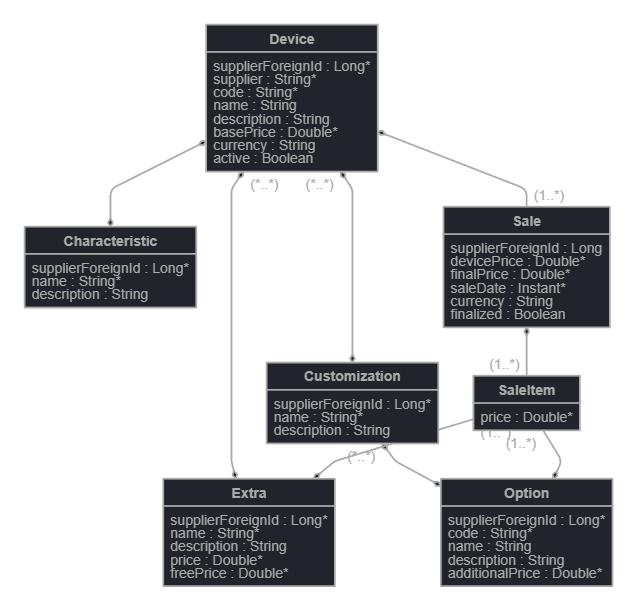
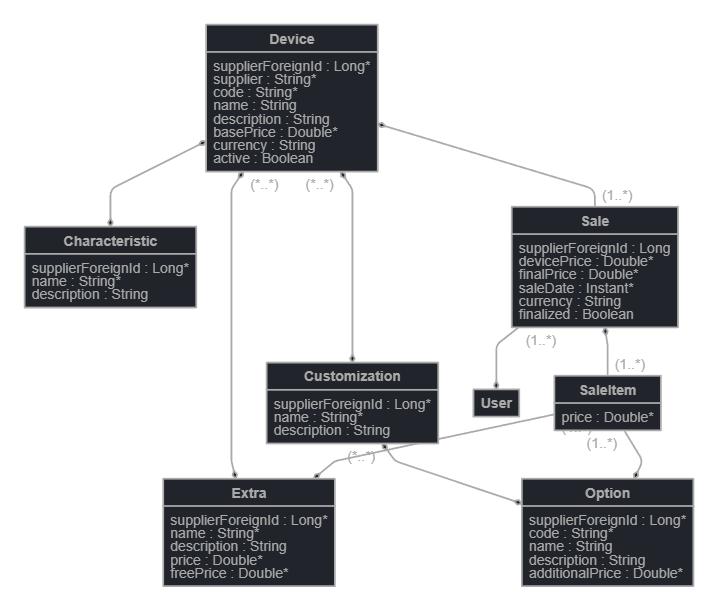
se agrego relacion manyToOne Sale-User

diff --git a/src/main/webapp/app/entities/sale/update/sale-update.component.spec.ts b/src/main/webapp/app/entities/sale/update/sale-update.component.spec.ts
@@ -4,10 +4,12 @@ import { FormBuilder } from '@angular/forms';
 import { ActivatedRoute } from '@angular/router';
 import { Subject, from, of } from 'rxjs';
 
+import { IUser } from 'app/entities/user/user.model';
+import { UserService } from 'app/entities/user/service/user.service';
 import { IDevice } from 'app/entities/device/device.model';
 import { DeviceService } from 'app/entities/device/service/device.service';
-import { SaleService } from '../service/sale.service';
 import { ISale } from '../sale.model';
+import { SaleService } from '../service/sale.service';
 import { SaleFormService } from './sale-form.service';
 
 import { SaleUpdateComponent } from './sale-update.component';
@@ -18,6 +20,7 @@ describe('Sale Management Update Component', () => {
   let activatedRoute: ActivatedRoute;
   let saleFormService: SaleFormService;
   let saleService: SaleService;
+  let userService: UserService;
   let deviceService: DeviceService;
 
   beforeEach(() => {
@@ -41,12 +44,35 @@ describe('Sale Management Update Component', () => {
     activatedRoute = TestBed.inject(ActivatedRoute);
     saleFormService = TestBed.inject(SaleFormService);
     saleService = TestBed.inject(SaleService);
+    userService = TestBed.inject(UserService);
     deviceService = TestBed.inject(DeviceService);
 
     comp = fixture.componentInstance;
   });
 
   describe('ngOnInit', () => {
+    it('Should call User query and add missing value', () => {
+      const sale: ISale = { id: 456 };
+      const user: IUser = { id: 26108 };
+      sale.user = user;
+
+      const userCollection: IUser[] = [{ id: 25182 }];
+      jest.spyOn(userService, 'query').mockReturnValue(of(new HttpResponse({ body: userCollection })));
+      const additionalUsers = [user];
+      const expectedCollection: IUser[] = [...additionalUsers, ...userCollection];
+      jest.spyOn(userService, 'addUserToCollectionIfMissing').mockReturnValue(expectedCollection);
+
+      activatedRoute.data = of({ sale });
+      comp.ngOnInit();
+
+      expect(userService.query).toHaveBeenCalled();
+      expect(userService.addUserToCollectionIfMissing).toHaveBeenCalledWith(
+        userCollection,
+        ...additionalUsers.map(expect.objectContaining),
+      );
+      expect(comp.usersSharedCollection).toEqual(expectedCollection);
+    });
+
     it('Should call Device query and add missing value', () => {
       const sale: ISale = { id: 456 };
       const device: IDevice = { id: 24359 };
@@ -71,12 +97,15 @@ describe('Sale Management Update Component', () => {
 
     it('Should update editForm', () => {
       const sale: ISale = { id: 456 };
+      const user: IUser = { id: 12440 };
+      sale.user = user;
       const device: IDevice = { id: 7904 };
       sale.device = device;
 
       activatedRoute.data = of({ sale });
       comp.ngOnInit();
 
+      expect(comp.usersSharedCollection).toContain(user);
       expect(comp.devicesSharedCollection).toContain(device);
       expect(comp.sale).toEqual(sale);
     });
@@ -151,6 +180,16 @@ describe('Sale Management Update Component', () => {
   });
 
   describe('Compare relationships', () => {
+    describe('compareUser', () => {
+      it('Should forward to userService', () => {
+        const entity = { id: 123 };
+        const entity2 = { id: 456 };
+        jest.spyOn(userService, 'compareUser');
+        comp.compareUser(entity, entity2);
+        expect(userService.compareUser).toHaveBeenCalledWith(entity, entity2);
+      });
+    });
+
     describe('compareDevice', () => {
       it('Should forward to deviceService', () => {
         const entity = { id: 123 };

diff --git a/src/main/webapp/app/entities/sale/update/sale-update.component.ts b/src/main/webapp/app/entities/sale/update/sale-update.component.ts
@@ -7,10 +7,12 @@ import { finalize, map } from 'rxjs/operators';
 import SharedModule from 'app/shared/shared.module';
 import { FormsModule, ReactiveFormsModule } from '@angular/forms';
 
+import { IUser } from 'app/entities/user/user.model';
+import { UserService } from 'app/entities/user/service/user.service';
 import { IDevice } from 'app/entities/device/device.model';
 import { DeviceService } from 'app/entities/device/service/device.service';
-import { ISale } from '../sale.model';
 import { SaleService } from '../service/sale.service';
+import { ISale } from '../sale.model';
 import { SaleFormGroup, SaleFormService } from './sale-form.service';
 
 @Component({
@@ -23,15 +25,19 @@ export class SaleUpdateComponent implements OnInit {
   isSaving = false;
   sale: ISale | null = null;
 
+  usersSharedCollection: IUser[] = [];
   devicesSharedCollection: IDevice[] = [];
 
   protected saleService = inject(SaleService);
   protected saleFormService = inject(SaleFormService);
+  protected userService = inject(UserService);
   protected deviceService = inject(DeviceService);
   protected activatedRoute = inject(ActivatedRoute);
 
   // eslint-disable-next-line @typescript-eslint/member-ordering
   editForm: SaleFormGroup = this.saleFormService.createSaleFormGroup();
+
+  compareUser = (o1: IUser | null, o2: IUser | null): boolean => this.userService.compareUser(o1, o2);
 
   compareDevice = (o1: IDevice | null, o2: IDevice | null): boolean => this.deviceService.compareDevice(o1, o2);
 
@@ -83,10 +89,17 @@ export class SaleUpdateComponent implements OnInit {
     this.sale = sale;
     this.saleFormService.resetForm(this.editForm, sale);
 
+    this.usersSharedCollection = this.userService.addUserToCollectionIfMissing<IUser>(this.usersSharedCollection, sale.user);
     this.devicesSharedCollection = this.deviceService.addDeviceToCollectionIfMissing<IDevice>(this.devicesSharedCollection, sale.device);
   }
 
   protected loadRelationshipsOptions(): void {
+    this.userService
+      .query()
+      .pipe(map((res: HttpResponse<IUser[]>) => res.body ?? []))
+      .pipe(map((users: IUser[]) => this.userService.addUserToCollectionIfMissing<IUser>(users, this.sale?.user)))
+      .subscribe((users: IUser[]) => (this.usersSharedCollection = users));
+
     this.deviceService
       .query()
       .pipe(map((res: HttpResponse<IDevice[]>) => res.body ?? []))

diff --git a/src/main/webapp/app/entities/sale/list/sale.component.html b/src/main/webapp/app/entities/sale/list/sale.component.html
@@ -84,6 +84,12 @@
                 <fa-icon class="p-1" icon="sort"></fa-icon>
               </div>
             </th>
+            <th scope="col" jhiSortBy="user.id">
+              <div class="d-flex">
+                <span jhiTranslate="computechApp.sale.user">User</span>
+                <fa-icon class="p-1" icon="sort"></fa-icon>
+              </div>
+            </th>
             <th scope="col" jhiSortBy="device.id">
               <div class="d-flex">
                 <span jhiTranslate="computechApp.sale.device">Device</span>
@@ -105,6 +111,9 @@
               <td>{{ sale.saleDate | formatMediumDatetime }}</td>
               <td>{{ sale.currency }}</td>
               <td>{{ sale.finalized }}</td>
+              <td>
+                {{ sale.user?.id }}
+              </td>
               <td>
                 @if (sale.device) {
                   <div>

diff --git a/src/main/webapp/app/entities/sale/update/sale-update.component.html b/src/main/webapp/app/entities/sale/update/sale-update.component.html
@@ -121,6 +121,16 @@
         </div>
 
         <div class="mb-3">
+          <label class="form-label" for="field_user" jhiTranslate="computechApp.sale.user">User</label>
+          <select class="form-control" id="field_user" data-cy="user" name="user" formControlName="user" [compareWith]="compareUser">
+            <option [ngValue]="null"></option>
+            @for (userOption of usersSharedCollection; track $index) {
+              <option [ngValue]="userOption">{{ userOption.id }}</option>
+            }
+          </select>
+        </div>
+
+        <div class="mb-3">
           <label class="form-label" for="field_device" jhiTranslate="computechApp.sale.device">Device</label>
           <select
             class="form-control"

diff --git a/src/main/webapp/app/entities/sale/update/sale-form.service.ts b/src/main/webapp/app/entities/sale/update/sale-form.service.ts
@@ -37,6 +37,7 @@ type SaleFormGroupContent = {
   saleDate: FormControl<SaleFormRawValue['saleDate']>;
   currency: FormControl<SaleFormRawValue['currency']>;
   finalized: FormControl<SaleFormRawValue['finalized']>;
+  user: FormControl<SaleFormRawValue['user']>;
   device: FormControl<SaleFormRawValue['device']>;
 };
 
@@ -69,6 +70,7 @@ export class SaleFormService {
       }),
       currency: new FormControl(saleRawValue.currency),
       finalized: new FormControl(saleRawValue.finalized),
+      user: new FormControl(saleRawValue.user),
       device: new FormControl(saleRawValue.device),
     });
   }

diff --git a/src/main/webapp/app/entities/sale/update/sale-form.service.spec.ts b/src/main/webapp/app/entities/sale/update/sale-form.service.spec.ts
@@ -26,6 +26,7 @@ describe('Sale Form Service', () => {
             saleDate: expect.any(Object),
             currency: expect.any(Object),
             finalized: expect.any(Object),
+            user: expect.any(Object),
             device: expect.any(Object),
           }),
         );
@@ -43,6 +44,7 @@ describe('Sale Form Service', () => {
             saleDate: expect.any(Object),
             currency: expect.any(Object),
             finalized: expect.any(Object),
+            user: expect.any(Object),
             device: expect.any(Object),
           }),
         );

diff --git a/src/main/webapp/app/entities/sale/sale.model.ts b/src/main/webapp/app/entities/sale/sale.model.ts
@@ -1,4 +1,5 @@
 import dayjs from 'dayjs/esm';
+import { IUser } from 'app/entities/user/user.model';
 import { IDevice } from 'app/entities/device/device.model';
 
 export interface ISale {
@@ -9,6 +10,7 @@ export interface ISale {
   saleDate?: dayjs.Dayjs | null;
   currency?: string | null;
   finalized?: boolean | null;
+  user?: Pick<IUser, 'id'> | null;
   device?: IDevice | null;
 }
 

diff --git a/src/main/webapp/app/entities/sale/detail/sale-detail.component.html b/src/main/webapp/app/entities/sale/detail/sale-detail.component.html
@@ -39,6 +39,10 @@
           <dd>
             <span>{{ saleRef.finalized }}</span>
           </dd>
+          <dt><span jhiTranslate="computechApp.sale.user">User</span></dt>
+          <dd>
+            <span>{{ saleRef.user?.id }}</span>
+          </dd>
           <dt><span jhiTranslate="computechApp.sale.device">Device</span></dt>
           <dd>
             @if (sale()!.device) {

diff --git a/src/main/java/ar/edu/um/programacion2/jh/domain/Sale.java b/src/main/java/ar/edu/um/programacion2/jh/domain/Sale.java
@@ -53,6 +53,13 @@ public class Sale implements Serializable {
     private Set<SaleItem> saleItems = new HashSet<>();
 
     @ManyToOne(fetch = FetchType.EAGER)
+    @JsonIgnoreProperties(
+        value = { "password", "activated", "langKey", "imageUrl", "activationKey", "resetKey", "resetDate", "authorities" },
+        allowSetters = true
+    )
+    private User user;
+
+    @ManyToOne(fetch = FetchType.EAGER)
     @JsonIgnoreProperties(value = { "sales", "characteristics", "extras", "customizations" }, allowSetters = true)
     private Device device;
 
@@ -177,6 +184,19 @@ public class Sale implements Serializable {
     public Sale removeSaleItems(SaleItem saleItem) {
         this.saleItems.remove(saleItem);
         saleItem.setSale(null);
+        return this;
+    }
+
+    public User getUser() {
+        return this.user;
+    }
+
+    public void setUser(User user) {
+        this.user = user;
+    }
+
+    public Sale user(User user) {
+        this.setUser(user);
         return this;
     }
 

diff --git a/src/test/java/ar/edu/um/programacion2/jh/web/rest/SaleResourceIT.java b/src/test/java/ar/edu/um/programacion2/jh/web/rest/SaleResourceIT.java
@@ -10,6 +10,7 @@ import static org.springframework.test.web.servlet.result.MockMvcResultMatchers.
 import ar.edu.um.programacion2.jh.IntegrationTest;
 import ar.edu.um.programacion2.jh.domain.Sale;
 import ar.edu.um.programacion2.jh.repository.SaleRepository;
+import ar.edu.um.programacion2.jh.repository.UserRepository;
 import com.fasterxml.jackson.databind.ObjectMapper;
 import jakarta.persistence.EntityManager;
 import java.time.Instant;
@@ -63,6 +64,9 @@ class SaleResourceIT {
 
     @Autowired
     private SaleRepository saleRepository;
+
+    @Autowired
+    private UserRepository userRepository;
 
     @Autowired
     private EntityManager em;

diff --git a/src/main/java/ar/edu/um/programacion2/jh/repository/SaleRepository.java b/src/main/java/ar/edu/um/programacion2/jh/repository/SaleRepository.java
@@ -1,6 +1,7 @@
 package ar.edu.um.programacion2.jh.repository;
 
 import ar.edu.um.programacion2.jh.domain.Sale;
+import java.util.List;
 import org.springframework.data.jpa.repository.*;
 import org.springframework.stereotype.Repository;
 
@@ -9,4 +10,7 @@ import org.springframework.stereotype.Repository;
  */
 @SuppressWarnings("unused")
 @Repository
-public interface SaleRepository extends JpaRepository<Sale, Long> {}
+public interface SaleRepository extends JpaRepository<Sale, Long> {
+    @Query("select sale from Sale sale where sale.user.login = ?#{authentication.name}")
+    List<Sale> findByUserIsCurrentUser();
+}

diff --git a/src/main/java/ar/edu/um/programacion2/jh/domain/Device.java b/src/main/java/ar/edu/um/programacion2/jh/domain/Device.java
@@ -55,7 +55,7 @@ public class Device implements Serializable {
 
     @OneToMany(fetch = FetchType.LAZY, mappedBy = "device")
     @Cache(usage = CacheConcurrencyStrategy.READ_WRITE)
-    @JsonIgnoreProperties(value = { "saleItems", "device" }, allowSetters = true)
+    @JsonIgnoreProperties(value = { "saleItems", "user", "device" }, allowSetters = true)
     private Set<Sale> sales = new HashSet<>();
 
     @ManyToMany(fetch = FetchType.EAGER)
